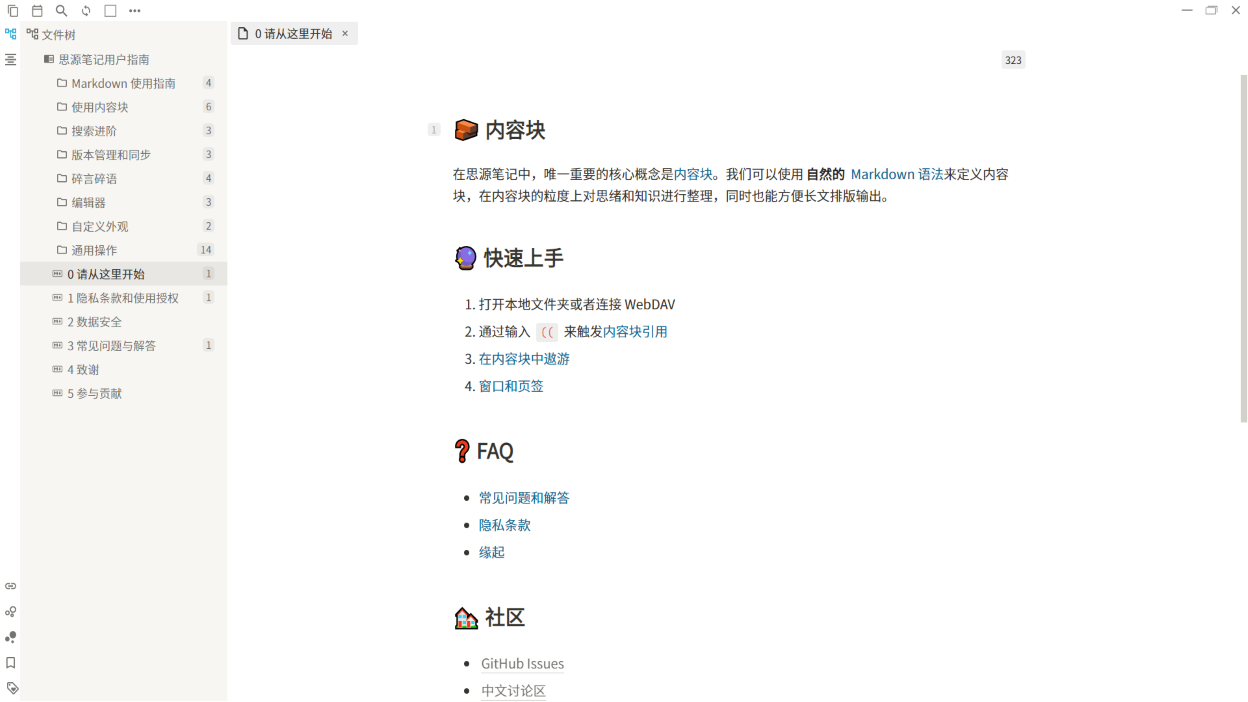
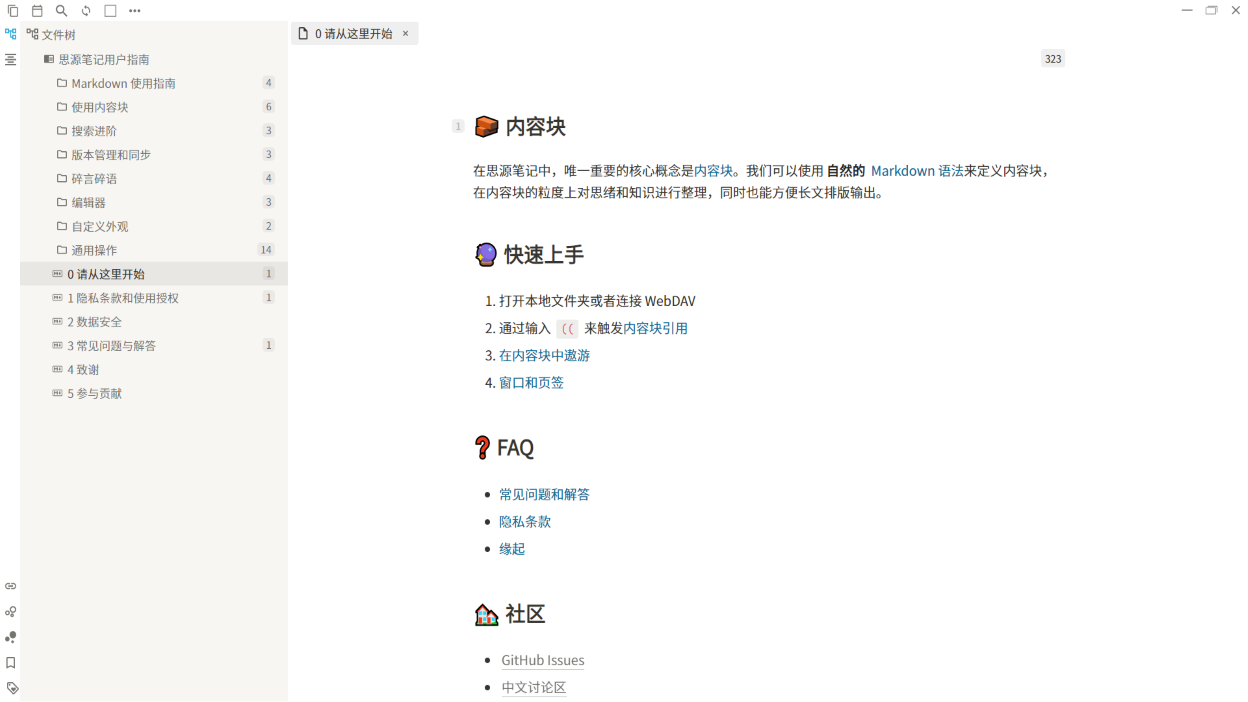
1.0.5 update

diff --git a/theme.css b/theme.css
@@ -77,7 +77,7 @@
 
   /* 滚动条 */
   --b3-scroll-color: var(--Notion-scroll-color);
-  --Notion-scroll-color: rgb(211, 209, 203);
+  --Notion-scroll-color: #D3D1CB;
 
   /* 列表 */
   --b3-list-hover: rgba(0, 0, 0, 0.05);
@@ -386,8 +386,38 @@
 }
 
 /* 滚动条 */
-::-webkit-scrollbar-thumb:hover {
-  background-color: rgb(174, 172, 166);
+.block__icons + .fn__flex-1::-webkit-scrollbar-thumb {
+  background-color: transparent;
+}
+
+.block__icons + .fn__flex-1:hover::-webkit-scrollbar-thumb{
+  background-color: var(--Notion-scroll-color);
+} 
+
+.vditor-content::after{
+  content: '';
+  width: 8px;
+  position: absolute;
+  right: 0;
+  top: 0;
+  bottom: 0;
+  background-color: #ffffff;
+  transition: all .3s linear;
+}
+
+.vditor-content:hover::after{
+    background-color: transparent;
+    animation: showScrollBar .3s linear;
+    animation-fill-mode: forwards;
+}
+@keyframes showScrollBar {
+    100% {
+        z-index: -1;
+    }
+}
+
+::-webkit-scrollbar-thumb:hover{
+  background-color: rgb(174, 172, 166) !important;
 }
 
 /* 块引用预览浮窗的样式 */
@@ -395,6 +425,21 @@
   box-shadow: var(--b3-dialog-shadow);
   animation: showBlock 0.3s ease-in-out;
 }
+
+/* 分栏中间的分隔线 */
+/* .layout > .fn__flex > .fn__flex-1 > .layout__resize--lr::after{
+  top:45%;
+  height: 10%;
+  width: 1px;
+  background-color: var(--Notion-scroll-color);
+}
+
+.layout > .fn__flex > .fn__flex-1 > .layout__resize:not(.layout__resize--lr)::after{
+  left: 45%;
+  width: 10%;
+  height: 1px;
+  background-color: var(--Notion-scroll-color);
+} */
 
 /* ----------------------------------------------------------------------------------------------------------------- */
 

diff --git a/README.md b/README.md
@@ -17,7 +17,7 @@
 
 ## 历史版本
 
-### 1.0.4
+### 1.0.5
 
 - 修改了富文本工具栏的样式
   - 每个项目的宽度和高度
@@ -25,6 +25,7 @@
 - 修改了块标识菜单的样式
   - 减小了按钮宽度
   - 恢复了按钮的位置
+- 添加了滚动条的动画效果
 
 ### 1.0.0
 
